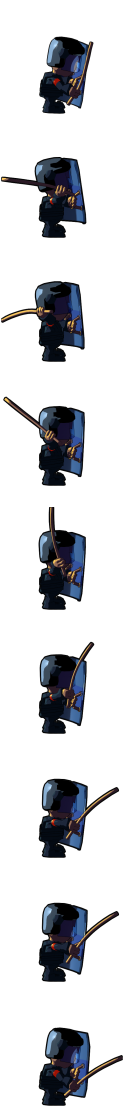
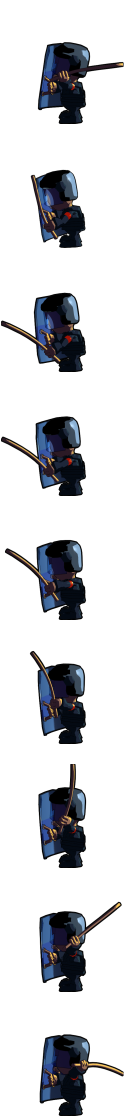
fixing amn markazy animation

diff --git a/nezal-ar/public/tsquare/js/game/display/amn_markazy_display.js b/nezal-ar/public/tsquare/js/game/display/amn_markazy_display.js
@@ -44,8 +44,8 @@ var AmnMarkazyDisplay = Class.create(EnemyDisplay,{
   createSprites:function(){
     if(this.owner.showHoveringIcon)
       this.sprites.hoverIcon = new DomImgSprite(this.owner,{img:this.hoverIcon, noOfFrames : 1}, {shiftY:-10, shiftX:20})
-    this.sprites.block = new DomImgSprite(this.owner,{img:this.blockImg, noOfFrames : 8}, {flipped:true})
-    this.sprites.block.createAnimation({name:'hit',img:this.hitImage, noOfFrames:9},{flipped:true})
+    this.sprites.block = new DomImgSprite(this.owner,{img:this.blockImg, noOfFrames : 8})
+    this.sprites.block.createAnimation({name:'hit',img:this.hitImage, noOfFrames:9})
   },
   
   render : function($super){

diff --git a/nezal-ar/public/tsquare/js/game/gameData.js b/nezal-ar/public/tsquare/js/game/gameData.js
@@ -17,7 +17,7 @@ var gameData =
       "type": '3_2',
       "index": 0,
       "lane": 1,
-      "x": 100,
+      "x": 10,
       "order": 1
   }, 
      {
